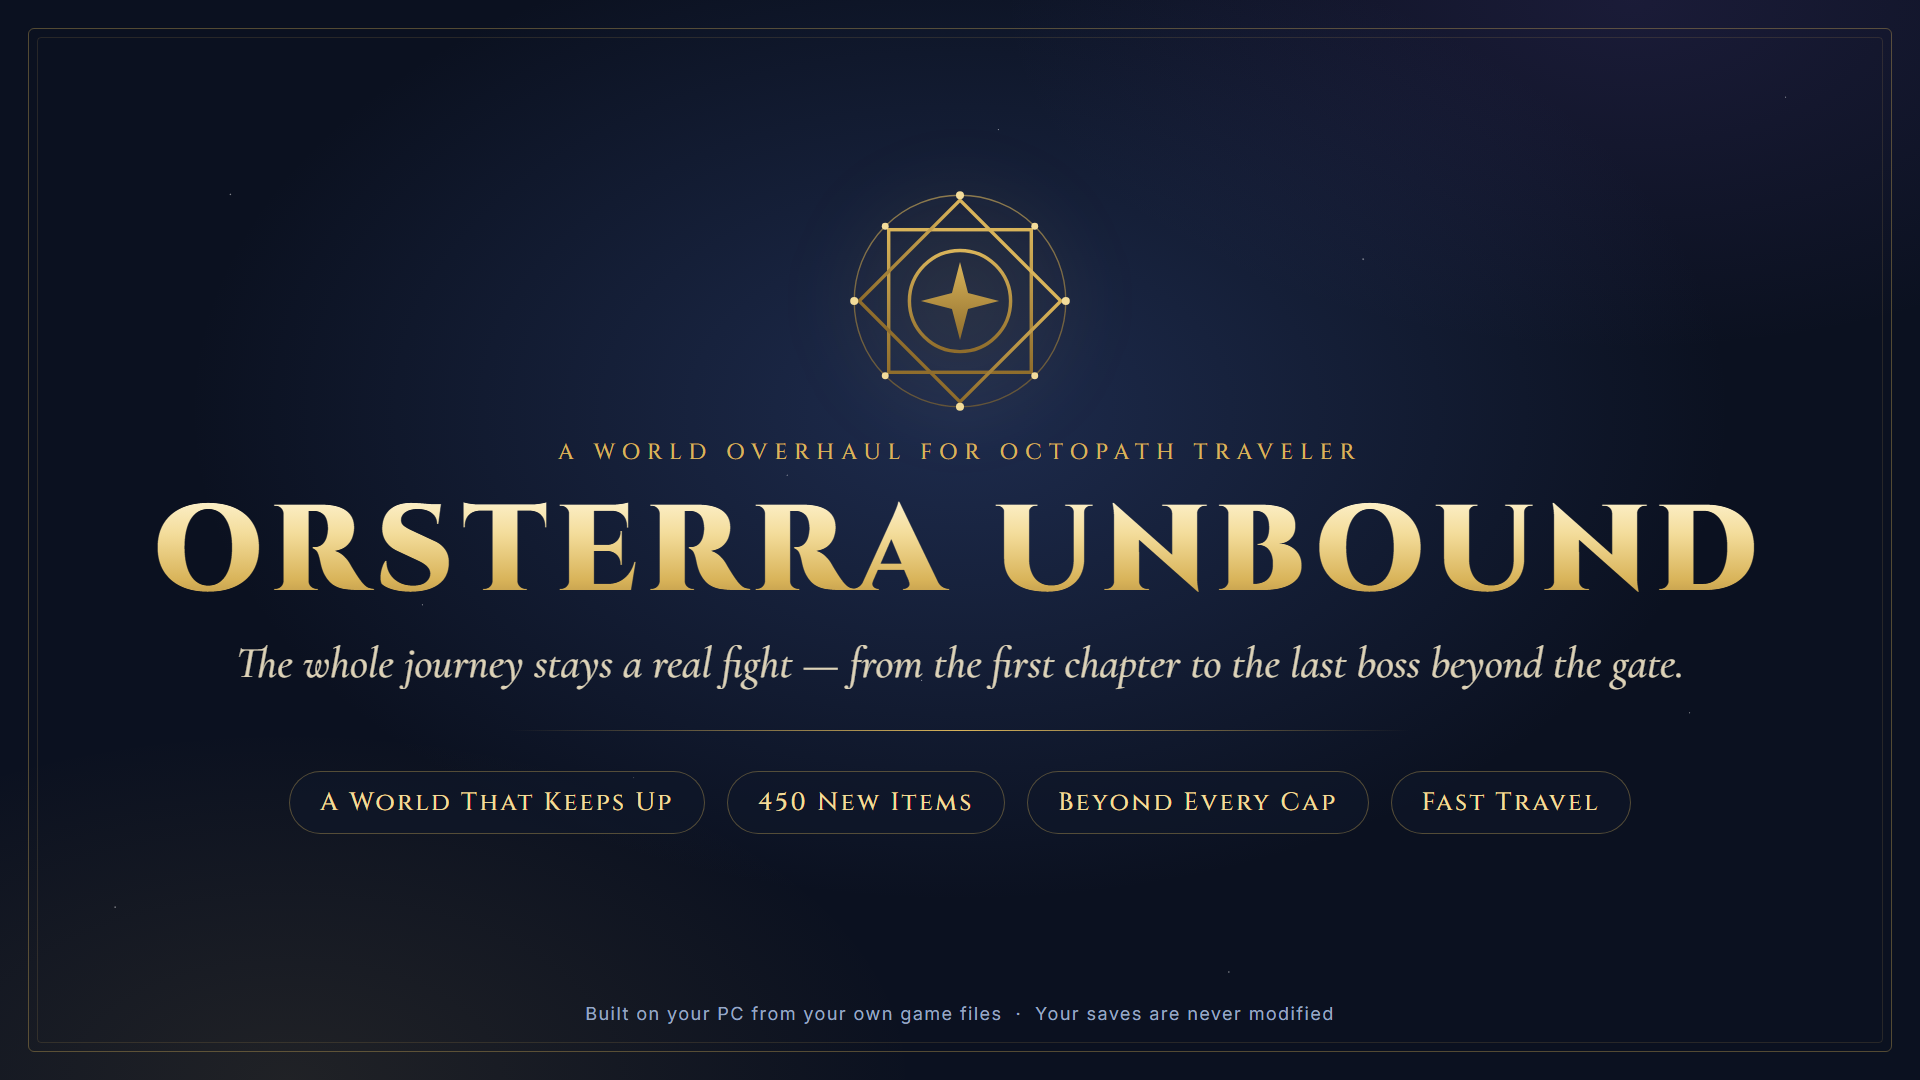
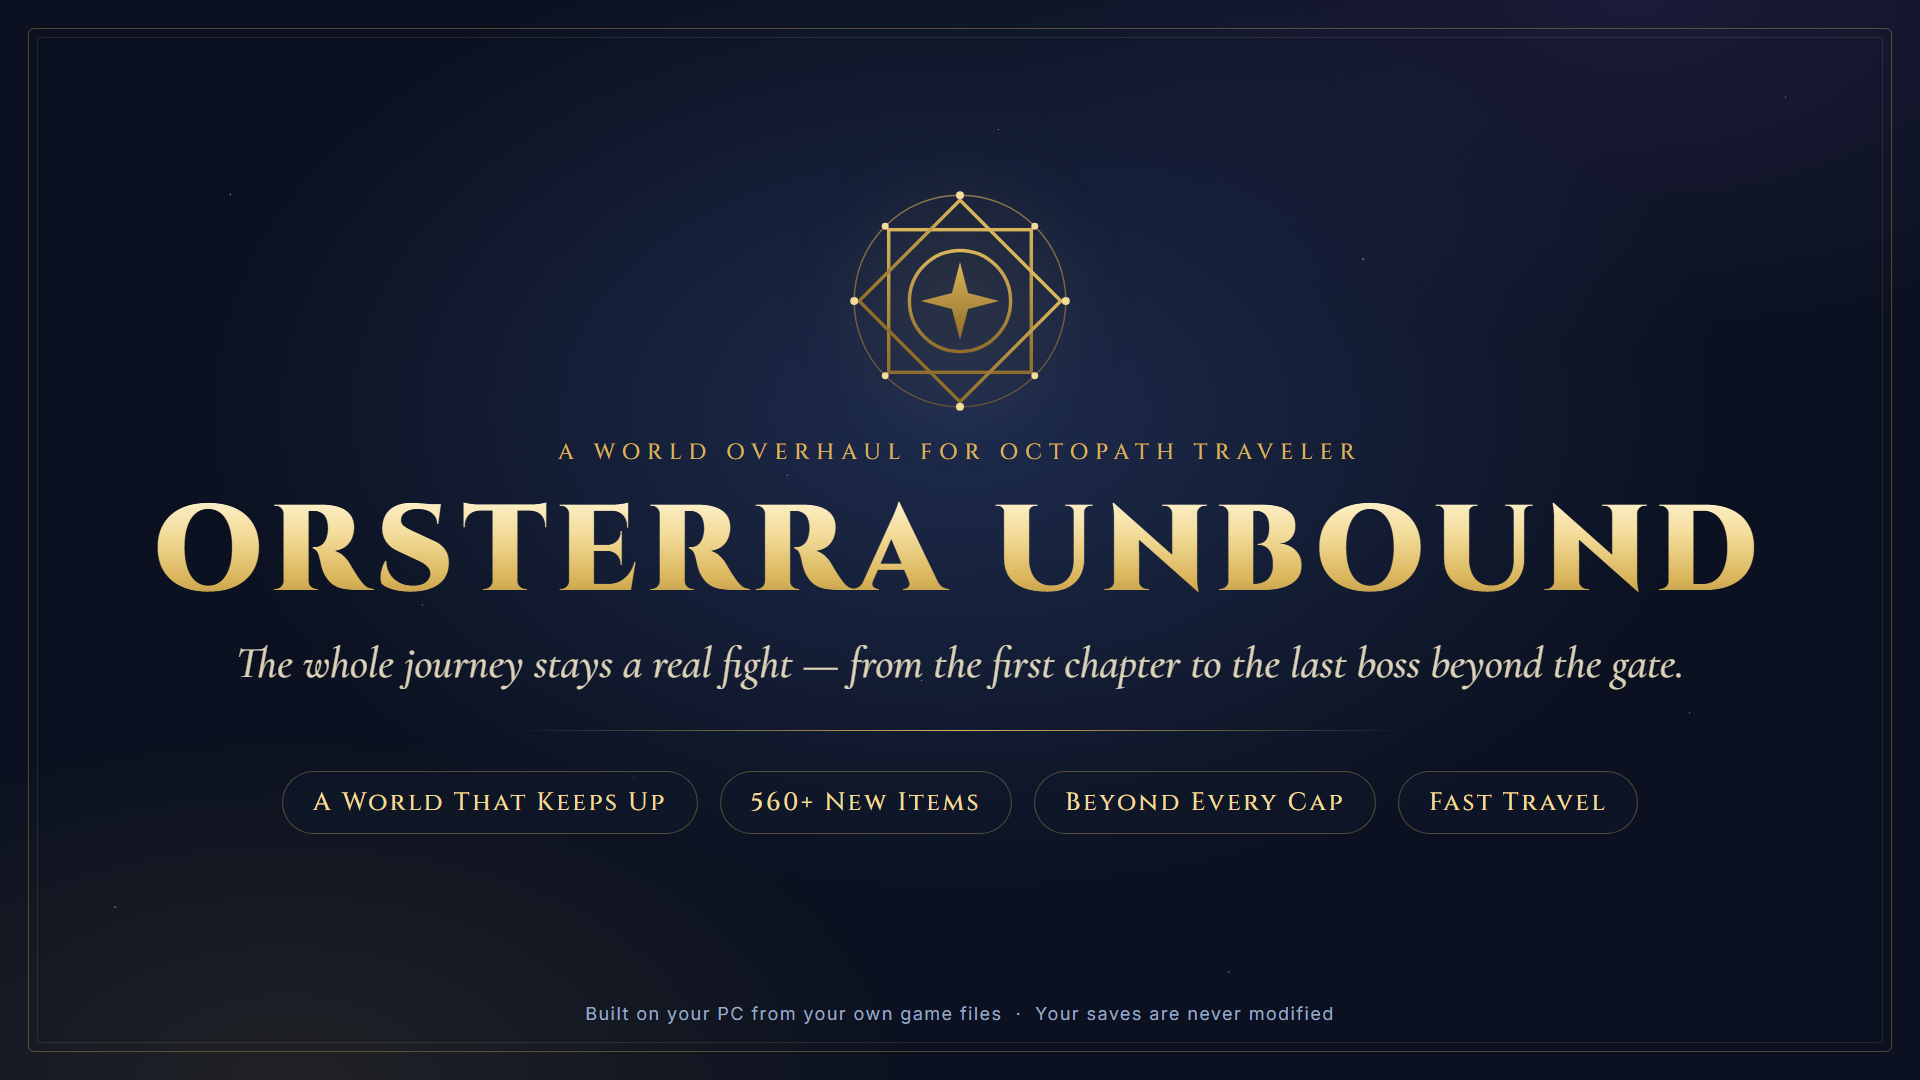
Release: slimmer exe (no SSL/unused stdlib, 9.7 MB zip); updated images, header, Nexus text

Changed region(s): [[0.375, 0.7333, 0.8438, 0.7639], [0.1562, 0.7333, 0.3438, 0.7639]]

diff --git a/docs/NEXUS_PAGE.md b/docs/NEXUS_PAGE.md
@@ -4,7 +4,7 @@
 **Category:** Overhauls
 **Version:** 1.0.0-beta.2
 **Short description (350 chars max):** Vanilla chapter 1s, then a world that keeps up: enemies
-and bosses scale with your story and party, 450 new multi-stat items to level 99, stats past
+and bosses scale with your story and party, 560+ new multi-stat items up to level 104, stats past
 999, elemental boosts that work on accessories, fast travel to visited places, half the random
 encounters, catch-up leveling. Built from your own files; saves never modified.
 
@@ -33,13 +33,16 @@ The whole journey stays a real fight — from the first chapter to the last boss
 [*]Provoke / Challenge fights and caits are untouched. H'aanit's captured beasts and Tressa's Collect keep pace.
 [/list]
 
-[size=5][b]450 new items[/b][/size]
+[size=5][b]560+ new items[/b][/size]
 [list]
-[*]Five tiers — Tempered, Runeforged, Astral, Sovereign, Eternal (levels 60–99) — sold in Grandport as the world reaches them, and as rare drops (every boss drops one).
+[*]Six tiers — Tempered, Runeforged, Astral, Sovereign, Eternal and Mythic (levels 60–104) — sold in Grandport as the world reaches them, and as rare drops (every boss drops one).
 [*]Every piece boosts several stats, and the description lists every number and how it stacks.
 [*]Weapon styles with on-hit effects, Twinfang double strikes, Gambler's crit-or-miss, Headsman's instant kills, dual-element weapons, Hallowed healer staves, a physical War Staff, status-immunity talismans, regen pendants, elemental wards, sigils and hearts.
 [*]Big SP and %HP restoratives; late in the game ordinary drops and steals become Revitalizing Jam and friends.
 [*]Gear you already own is never changed. New gear sells back for half its price, so you can try it on.
+[*][b]Fortune's Purse[/b]: triple JP and battle money (the best JP/money item worn counts; they don't stack).
+[*][b]Wayfarer's Laurel[/b]: appears in Grandport once you've finished every side story — +1,500 to every stat, regeneration, more EXP, JP and money.
+[*][b]Unbound Crown[/b]: +3,000 to every stat, dropped by Galdera.
 [/list]
 
 [size=5][b]Beyond every cap[/b][/size]
@@ -52,14 +55,14 @@ The whole journey stays a real fight — from the first chapter to the last boss
 [list]
 [*]Fast travel to every location you've visited (unvisited places stay locked).
 [*]Evasive Maneuvers built in — half the random encounters, one support-skill slot freed.
-[*]Catch-up leveling: travelers who fell behind level up to 5× faster.
+[*]Catch-up leveling: travelers far behind your party get their early levels up to 5× cheaper (the last few levels before they catch up cost the usual total).
 [/list]
 
 [size=5][b]Presets[/b][/size]
 [list]
 [*][b]classic[/b] — the story's own curve, plus the gear, caps and quality of life.
 [*][b]adaptive[/b] (default) — a little above the story, and never below your party.
-[*][b]relentless[/b] — adaptive, then a step harder from the chapter 4s: enemies above your level, bosses ×2 HP, superbosses ×4.
+[*][b]relentless[/b] — adaptive, then a step harder from the chapter 4s: enemies above your level, bosses ×2 HP, superbosses ×4. The world keeps growing with everything you complete — main story, side stories, optional bosses and exploration — up to danger 104. The Gate of Finis bosses fight at 94 or more, and Galdera waits at 104.
 [/list]
 Every feature can be switched off in overhaul.ini.
 
@@ -74,7 +77,7 @@ From then on, just press Play. The world is rebuilt from your save whenever your
 [b]Uninstall:[/b] run OctopathWorldOverhaul.exe --uninstall, then delete the folder.
 
 [size=5][b]Compatibility[/b][/size]
-Steam version on Windows (not Game Pass, not Steam Deck/Linux). Works with Better Descriptions, Side Stories Helper and other text mods (their text is kept). Conflicts with mods that replace EnemyDB, ItemDB, ShopList, EncountVolumeData or BattlePlayerBP — this one loads last and wins. New item text is English in every language.
+Steam version on Windows (not Game Pass, not Steam Deck/Linux). Works with Better Descriptions, Side Stories Helper and other text mods (their text is kept). Conflicts with mods that replace EnemyDB, ItemDB, ShopList, EncountVolumeData, BattlePlayerBP or BattleManagerBP — this one loads last and wins. New item text is English in every language.
 
 [size=5][b]Good to know[/b][/size]
 [list]
